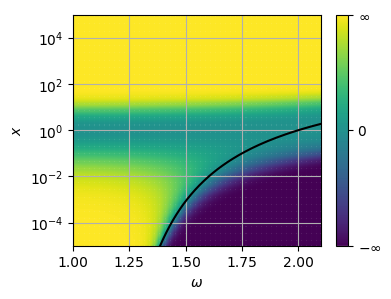
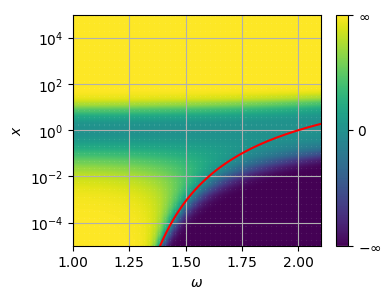
small modifs

diff --git a/paper.tex b/paper.tex
@@ -92,7 +92,7 @@ We also suggest a heuristic to choose a suitable asymptotic overrelaxation param
 \end{abstract}
 
 \section{Introduction}
-Optimal Transport (OT) is an efficient and flexible tool to compare two probability distributions which has been popularized in the computer vision community in the context of discrete histograms \cite{Rubner2000}. The introduction of entropic regularization in \cite{cuturi13} has made possible the use of the fast Sinkhorn--Knopp algorithm \cite{sinkhorn64}   scaling with high dimensional data. 
+Optimal Transport is an efficient and flexible tool to compare two probability distributions which has been popularized in the computer vision community in the context of discrete histograms \cite{Rubner2000}. The introduction of entropic regularization in \cite{cuturi13} has made possible the use of the fast Sinkhorn--Knopp algorithm \cite{sinkhorn64}   scaling with high dimensional data. 
 Regularized optimal transport have thus been intensively used  in  Machine Learning with applications such as   Geodesic PCA \cite{seguy2015principal}, domain adaptation \cite{2015arXiv150700504C}, data fitting \cite{2015arXiv150605439F},  training of Boltzmann Machine \cite{NIPS2016_6248}  or dictionary learning \cite{Rolet2016,2017arXiv170801955S}.
 
 The computation of optimal transport between two data relies on the estimation of an optimal transport matrix, the entries of which represent the quantity of mass transported between  data locations. 
@@ -172,12 +172,11 @@ Another way to interpret the SK algorithm is as an alternate maximization algori
 \begin{equation}\label{DROT}
 \max_{\substack{\alpha\in \IR^n\\\beta\in \IR^m}}\; E(\alpha,\beta) \coloneqq \langle \alpha,\mu^1\rangle+\langle \beta,\mu^2\rangle-\epsilon\sum_{i,j}e^{(\alpha_i+\beta_j-c_{i,j})/\epsilon}.
 \end{equation}
-The function $E$ is concave, continuously differentiable and admits a maximizer, so alternate maximization converges and we recover, for $a_i=e^{\alpha_i/\epsilon}$, $b_j=e^{\beta_j/\epsilon}$ and $\gamma^0_{i,j}=e^{-c_{i,j}/\epsilon}$:
-\begin{align*}
-a^{\ell+1} &= {\mu^1}\oslash{\gamma^0 b^{\ell}} &
-b^{\ell+1} &= {\mu^2}\oslash{^t \gamma^0 a^{\ell+1}} 
-\end{align*}
-
+The function $E$ is concave, continuously differentiable and admits a maximizer, so alternate maximization converges and we recover SK algorithm by posing for $a_i=e^{\alpha_i/\epsilon}$, $b_j=e^{\beta_j/\epsilon}$ and $\gamma^0_{i,j}=e^{-c_{i,j}/\epsilon}$.
+%\begin{align*}
+%a^{\ell+1} &= {\mu^1}\oslash{\gamma^0 b^{\ell}} &
+%b^{\ell+1} &= {\mu^2}\oslash{^t \gamma^0 a^{\ell+1}} 
+%\end{align*}
 
 
 Efficient parallel computations can be considered \cite{cuturi13} and one can even reach real-time computation for large scale problem for certain class of cost matrices $c$ \cite{Solomon2015}. 
@@ -185,16 +184,16 @@ For small values of the parameter $\epsilon$, numerical issues can arise and a s
 The convergence of the process can nevertheless be very slow when $\epsilon$ is small.
 
 \subsection{Overview and contributions}
-In this paper, we consider an overrelaxation scheme designed to accelerate the Sinkhorn--Knopp algorithm. We first present and show the convergence of our algorithm in section 2. In section 3, we analyze the local convergence rate of the algorithm to justify the acceleration.
+In this paper, we consider an overrelaxation scheme designed to accelerate the Sinkhorn--Knopp algorithm. We first present and show the convergence of our algorithm in Section 2. In Section 3, we analyze the local convergence rate of the algorithm to justify the acceleration.
 We finally demonstrate numerically  in Section 4 the good behavior of our method, where larger accelerations are observed for decreasing values of $\epsilon$.
 
 \subsection{Related works }
-The introduction of relaxation variables through heavy ball approaches \cite{POLYAK19641} has recently gained in popularity  to speed up the convergence of algorithms optimizing convex \cite{2014arXiv1412.7457G} or non convex \cite{Zavriev1993,2016arXiv160609070O} problems. Such schemes have also been empirically considered to accelerate the SK algorithm  in \cite{peyre2016quantum,2017arXiv170801955S}. The convergence of these algorithms is nevertheless not studied yet in the context of regularized optimal transport.
+The introduction of relaxation variables through heavy ball approaches \cite{POLYAK19641} has recently gained in popularity  to speed up the convergence of algorithms optimizing convex \cite{2014arXiv1412.7457G} or non convex \cite{Zavriev1993,2016arXiv160609070O} problems. Our specific approach is very much related to the SOR algorithm~\cite{young2014iterative}, which is a classical way to solve linear systems. Similar schemes have been empirically considered to accelerate the SK algorithm  in \cite{peyre2016quantum,2017arXiv170801955S}. The convergence of these algorithms has nevertheless not been studied yet in the context of regularized optimal transport.
 
 
 \section{Overrelaxed Sinkhorn--Knopp algorithm}
 
-As illustrated in Figure \ref{alternate_projections} (a-b), the SK algorithm, that  performs alternate Bregman projections onto the affine sets $\Ccal_1$ and $\Ccal_2$, can be very slow when $\epsilon\to 0$. The idea developed in this paper is to perform overrelaxed projections in order to accelerate the process, as displayed in Figure \ref{alternate_projections} (c).
+As illustrated in Figure \ref{alternate_projections} (a-b), SK algorithm, that  performs alternate Bregman projections onto the affine sets $\Ccal_1$ and $\Ccal_2$, can be very slow when $\epsilon\to 0$. The idea developed in this paper is to perform overrelaxed projections in order to accelerate the process, as displayed in Figure \ref{alternate_projections} (c).
 
 \begin{figure}[ht!]
 \centering
@@ -228,12 +227,12 @@ A naive algorithm would then consist in iteratively applying $P^\omega_{\Ccal_2}
 While it often behaves well in practice, this algorithm may sometimes not converge even for reasonable values of $\omega$.
 Our goal in this section is to modify this algorithm to make it robust and to guarantee convergence.
 
-Duality gives another point of view on the iterative overrelaxed Bregman projections. They indeed correspond to a successive overelaxation (SOR) algorithm on the dual objective $E$. This can be seen by using the relationships given after equation~\eqref{DROT}:
+Duality gives another point of view on the iterative overrelaxed Bregman projections: they indeed correspond to a successive overrelaxation (SOR) algorithm on the dual objective $E$. This is a procedure which, starting from $(\alpha^0,\beta^0)=(\mathbf{0},\mathbf{0})$, defines for $\ell \in \mathbb{N}^*$,
 \begin{align}\label{SORdual}
 \alpha^{\ell+1} &= (1-\omega)\alpha^{\ell} + \omega \arg \max_\alpha E(\alpha,\beta^{\ell})\\
 \beta^{\ell + 1}&=(1-\omega) \beta^{\ell} + \omega \arg \max_\beta E(\alpha^{\ell+1},\beta).
 \end{align} 
-
+This can be seen by using the relationships given after equation~\eqref{DROT}.
 %{\color{blue} \begin{proposition} 
 %State here that the fixed points of   $\gamma^{l+1} =P^\theta_{\Ccal_2}(P^\theta_{\Ccal_1}(\gamma^l))$ are the same than $\gamma^{l+1} =P_{\Ccal_2}(P_{\Ccal_1}(\gamma^l))$? lenaic: what is exactly needed? I can think of it tomorow.
 %\end{proposition}}
@@ -278,8 +277,8 @@ It follows from Lemma \ref{lemma:lyapunov_decrease} that the decrease of $F$ for
 
 \begin{figure}[ht!]
 \begin{center}
-\includegraphics[width=9cm]{images/cvgce_zone}
-\caption{\label{phi_omega} Value of $\varphi_\omega(x)$. The function is positive above the black line, negative below. For any relaxation parameter $\omega$ smaller than $2$, there exists a neighborhood of $1$ on which $\varphi_\omega(\cdot)$ is positive.}
+\includegraphics[width=8cm]{images/cvgce_zone}
+\caption{\label{phi_omega} Value of $\varphi_\omega(x)$. The function is positive above the red line, negative below. For any relaxation parameter $\omega$ smaller than $2$, there exists a neighborhood of $1$ on which $\varphi_\omega(\cdot)$ is positive.}
 %\includegraphics[width=11cm]{phi_omega.png}
 %\caption{\label{phi_omega} Plot of functions $\varphi_\omega(x)$ for different values $1\leq \omega\leq 2$ and   $x\in[10^{-2}, 10^1]$.}
 \end{center}
@@ -343,7 +342,7 @@ Let $\theta_1$ and $\theta_2$ be two continuous functions of $\gamma$ such that
 %{\color{red} 
 %	TODO Construire les bonnes fonctions $\theta_k(\gamma)$.}
 
-To construct explicitly functions $\theta_k$ as needed in Theorem~\ref{thm:algo}, we need the following lemma.
+We can construct explicitly functions $\theta_k$ as needed in Theorem~\ref{thm:algo} using the following lemma.
 \begin{lemma}\label{lemma:F_P_theta}
 	Let $1\le \theta < \omega$. Then, for any $\gamma \in \IR_{+*}^{n_1 n_2}$, one has
 	\begin{equation}\label{eq:F_P_theta}
@@ -352,7 +351,7 @@ To construct explicitly functions $\theta_k$ as needed in Theorem~\ref{thm:algo}
 	Moreover, equality occurs if and only if $\gamma \in \Ccal_k$.
 \end{lemma}
 \begin{proof}
-	Thanks to lemma \ref{lemma:lyapunov_decrease}, one knows that
+	Thanks to Lemma \ref{lemma:lyapunov_decrease}, one knows that
 	\[
 	F(P^\theta_{\Ccal_k}(\gamma)) - F(P^\omega_{\Ccal_k}(\gamma))
 	= \scal{\mu^k}{(\varphi_\omega - \varphi_\theta) \left( \frac{A_k \gamma}{\mu^k} \right) } .
@@ -380,14 +379,6 @@ We now argue that a good choice for the functions $\theta_k$ may be constructed 
 	\end{equation}
 	is continuous and verifies the descent condition (\ref{eq:cond_theta_k}).
 \end{proposition}
-
-This construction, is often an excellent choice in practice, has several advantages:
-\begin{enumerate}[align=right,labelsep=10pt,leftmargin=0.5cm]
-\item[$\bullet$] it allows to choose arbitrarily the parameter $\theta_0$ that will be used eventually when the algorithm is close to convergence (we motivate what are good choices for $\theta_0$ in section \ref{section:local});
-\item[$\bullet$] it is also an easy approach to having an adaptive method, as the approximation of $\Theta^*$ has a negligible cost (it only requires to solve a one dimensional problem that depends on the smallest value of $(A_k \gamma)\oslash \mu^k$, which can be done in a few iterations of Newton's method).
-%\item[$\bullet$] experiments show that this is often an excellent choice in practice.
-\end{enumerate}
-
 \begin{proof}
 Looking at Figure~\ref{phi_omega} can help understand this proof.	Since the partial derivative of $\partial_\omega \varphi_\omega(x)$ is nonzero for any $x<1$, the implicit function theorem proves the continuity of $\Theta^*$.
 	The function $\Theta^*\left((A_k \gamma)\oslash \mu^k)\right)$ is such that every term in relation (\ref{eq:kl_diff_scal}) is non-negative.
@@ -395,7 +386,16 @@ Looking at Figure~\ref{phi_omega} can help understand this proof.	Since the part
 	Constraining the parameter to $[1,\theta_0]$ preserves this property.% as using $\theta=1$ always satisfies inequality \eqref{eq:cond_theta_k} and using $\theta=\theta_0$ when it is smaller than $\Theta^*\left(\frac{A_k \gamma}{\mu^k}\right)$ does as well.
 \end{proof}
 
-The resulting algorithm, which is proved to be convergent by Theorem~\ref{thm:algo}, is written in pseudo-code in Algorithm \ref{SOR}. It uses the function $\Theta$ defined implicitly in \eqref{eq:Theta}, which in practice is approximated with a few iterations of Newton's method on the function $\omega \mapsto \varphi_\omega(\min u)$ which decreasing is as can be seen on Figure~\ref{phi_omega}. With the choice $\theta_0=1$, one recovers exactly the original SK algorithm.is \vspace{-0.1cm}
+This construction, which is often an excellent choice in practice, has several advantages:
+\begin{enumerate}[align=right,labelsep=10pt,leftmargin=0.5cm]
+\item[$\bullet$] it allows to choose arbitrarily the parameter $\theta_0$ that will be used eventually when the algorithm is close to convergence (we motivate what are good choices for $\theta_0$ in Section \ref{section:local});
+\item[$\bullet$] it is also an easy approach to having an adaptive method, as the approximation of $\Theta^*$ has a negligible cost (it only requires to solve a one dimensional problem that depends on the smallest value of $(A_k \gamma)\oslash \mu^k$, which can be done in a few iterations of Newton's method).
+%\item[$\bullet$] experiments show that this is often an excellent choice in practice.
+\end{enumerate}
+
+
+
+The resulting algorithm, which is proved to be convergent by Theorem~\ref{thm:algo}, is written in pseudo-code in Algorithm \ref{SOR}. It uses the function $\Theta$ defined implicitly in \eqref{eq:Theta}, which in practice is approximated with a few iterations of Newton's method on the function $\omega \mapsto \varphi_\omega(\min u)$ which is decreasing is as can be seen on Figure~\ref{phi_omega}. With the choice $\theta_0=1$, one recovers exactly the original SK algorithm.is \vspace{-0.1cm}
 \begin{algorithm}
 \caption{Overrelaxed SK algorithm }
 \label{SOR}
@@ -427,10 +427,10 @@ The resulting algorithm, which is proved to be convergent by Theorem~\ref{thm:al
 \section{Acceleration of local convergence rate}
 \label{section:local}
 In order to justify the acceleration of convergence that is observed in practice, we now study the local convergence rate of the overrelaxed algorithm, which follows from the classical convergence analysis of the linear SOR method. Our result involves the second largest eigenvalue of the matrix
- \[
+\begin{equation}\label{eq:M1}
 M_1= \diag(1\oslash \mu^1) \, \gamma^* \, \diag(1\oslash \mu^2)\, ^t\gamma^*
-\]
-where $\gamma^*$ is the solution to the regularized OT problem. This matrix corresponds to the linearized dual SK iteration at the maximizer. We denote this second largest eigenvalue by $1-\eta$, which satisfies $\eta>0$ (see \cite{knight2008sinkhorn}).
+\end{equation}
+where $\gamma^*$ is the solution to the regularized OT problem. We denote this second largest eigenvalue by $1-\eta$, which satisfies $\eta>0$ (see \cite{knight2008sinkhorn}).
 
 \begin{proposition}\label{prop:local}
 The SK algorithm converges locally at a linear rate $1-\eta$. For the optimal choice of extrapolation parameter $\theta^* = 2/(1+\sqrt{\eta})$, the overrelaxed projection algorithm converges locally linearly at a rate $(1-\sqrt{\eta})/(1+\sqrt{\eta})$. More generally, the local convergence of the overrelaxed algorithm is guaranteed as long as $\theta \in {]0,2[}$ and the linear rate is given on Figure~\ref{fig:eigtransform} as a function of $1-\eta$ and $\theta$.
@@ -441,16 +441,16 @@ In this proof, we focus on the dual problem and we recall the relationship $\gam
 The dual problem~\eqref{DROT} is invariant by translations of the form $(\alpha,\beta)\mapsto (\alpha-k,\beta+k)$, $k\in \IR$, but is otherwise strictly convex on any subspace which does not contain the line $\IR(\mathbf{1},-\mathbf{1})$ (this invariance cancels in the corresponding primal iterates). In order to deal with this invariance, consider the subspace $S$ of pairs of dual variables $(\alpha,\beta)$ that satisfy $\alpha_1=0$, let $\pi_S$ be the (non orthogonal) projection on $S$ of kernel $(\mathbf{1},-\mathbf{1})$ and let $(\alpha^*,\beta^*)\in S$ be a dual maximizer. 
 
 % 
-Since the SOR iteration it smooth, its local convergence is characterized by the local convergence of its linearized version, which corresponds to the SOR method applied to maximize the quadratic expansion of the dual objective $E$ at $(\alpha^*,\beta^*)$. This defines an affine map $M_\theta : (\alpha^{\ell},\beta^{\ell})\mapsto (\alpha^{\ell+1},\beta^{\ell+1})$ whose spectral properties are well known~\cite{ciarlet1982introduction, young2014iterative} (see also \cite[chapter 4]{chizat2017these} for the specific case of convex minimization). Specifically, in the non strictly concave case~\cite{hadjidimos1985optimization}, we have that the operator $\pi_S\circ M_1^\ell$ converges at the linear rate $1-\eta$ towards the projector on $(\alpha^*,\beta^*)$ and that the convergence of $\pi_S\circ M_\theta^\ell$ is guaranteed for $\theta \in ]0,2[$, with the rate 
+Since the SOR iteration followed by $\pi_S$ is a smooth map, its local convergence properties are characterized by the local convergence of its linearization, which corresponds to the SOR method applied to the maximization of the quadratic Taylor expansion of the dual objective $E$ at $(\alpha^*,\beta^*)$. This defines an affine map $M_\theta : (\alpha^{\ell},\beta^{\ell})\mapsto (\alpha^{\ell+1},\beta^{\ell+1})$ whose spectral properties are well known~\cite{ciarlet1982introduction, young2014iterative} (see also \cite[chapter 4]{chizat2017these} for the specific case of convex minimization). For the case $\theta=1$, we obtain the matrix $M_1$ defined in \eqref{eq:M1}. Specifically, in the non strictly concave case~\cite{hadjidimos1985optimization}, we have that the operator $\pi_S\circ M_1^\ell$ converges at the linear rate $1-\eta$ towards the projector on $(\alpha^*,\beta^*)$ and that the convergence of $\pi_S\circ M_\theta^\ell$ is guaranteed for $\theta \in ]0,2[$, with the rate 
 \[
 f(\theta,\eta) = \begin{cases}
-\theta-1 & \text{if $\theta$}\\
-\frac12 \theta^2(1-\eta) - (\theta-1) +\frac12 \sqrt{(1-\eta)\theta^2(\theta^2(1-\eta)-4(\theta-1))} & \text{otherwise.}
+\theta-1 & \text{if $\theta>\theta^*$}\\
+\frac12 \theta^2(1-\eta) - (\theta-1) +\frac12 \sqrt{(1-\eta)\theta^2(\theta^2(1-\eta)-4(\theta-1))} & \text{otherwise},
 \end{cases}
 \]
-where $\theta^*=2/(1+\sqrt{\eta})$ is the optimal parameter, for which $f(\theta,\eta)=(1-\sqrt{\eta})/(1+\sqrt{\eta})$. The function $f$ is plotted in Figure \ref{fig:eigtransform}.
+where $\theta^*\coloneqq2/(1+\sqrt{\eta})$ is the optimal parameter, for which $f(\theta^*,\eta)=(1-\sqrt{\eta})/(1+\sqrt{\eta})$. The function $f$ is plotted in Figure \ref{fig:eigtransform}.
 
-To switch from these dual convergence results to primal results, remark that $\gamma^\ell \to \gamma^*$ implies $\KL(\gamma^\ell,\gamma^0)\to \KL(\gamma^*,\gamma^0)$ which in turn implies $E(\alpha^\ell,\beta^\ell) \to \max E$ so invoking the partial strict concavity of $E$, $\pi_S(\alpha^\ell,\beta^\ell)\to (\alpha^*,\beta^*)$. The converse implication is direct. We conclude by noting that the fact that $\pi_S(\alpha^\ell, \beta^\ell)$ converges at a linear rate implies the same rate on $\gamma^\ell$, thanks to the relationship between the iterates.
+To switch from these dual convergence results to primal convergence results, remark that $\gamma^\ell \to \gamma^*$ implies $\KL(\gamma^\ell,\gamma^0)\to \KL(\gamma^*,\gamma^0)$ which in turn implies $E(\alpha^\ell,\beta^\ell) \to \max E$ so invoking the partial strict concavity of $E$, $\pi_S(\alpha^\ell,\beta^\ell)\to (\alpha^*,\beta^*)$. The converse implication is direct so it holds $[\pi_S(\alpha^\ell,\beta^\ell)\to (\alpha^*,\beta^*)] \Leftrightarrow [\gamma^\ell \to \gamma^*]$. We conclude by noting that the fact that $\pi_S(\alpha^\ell, \beta^\ell)$ converges at a linear rate implies the same rate on $\gamma^\ell$, thanks to the relationship between the iterates.
 %Using standard arguments, we have that the local convergence rate of the SOR procedure on the dual objective $E$ is that of the SOR procedure applied to the quadratic form defined by its Hessian and the linear rate of \emph{semi-convergence} to the projection on the set of minimizers. 
 \end{proof}
 
@@ -470,7 +470,7 @@ To switch from these dual convergence results to primal results, remark that $\g
 The previous local convergence analysis applies to Algorithm \ref{thm:algo}, where the local convergence rate is governed by the choice of the target extrapolation parameter $\theta_0$.
 \end{corollary}
 \begin{proof}
-What we need to show is that eventually one always has $\Theta(\gamma^\ell)=\theta_0$. This can be seen from the quadratic Taylor expansion $\varphi_{\theta_0}(1+z)=z^2(\theta_0 -\theta_0^2/2)+ o(z^2)$, which shows that for any choice of $\theta_0<2$ there is a neighborhood of $1$ on which $\varphi_{\theta_0}(\cdot)$ is nonnegative.
+What we need to show is that eventually one always has $\Theta(\gamma^\ell)=\theta_0$. This can be seen from the quadratic Taylor expansion $\varphi_{\theta_0}(1+z)=z^2(\theta_0 -\theta_0^2/2)+ o(z^2)$, which shows that for any choice of $\theta_0\in {]1,2[}$, there is a neighborhood of $1$ on which $\varphi_{\theta_0}(\cdot)$ is nonnegative.
 \end{proof}
 
 %If $(\alpha^*,\beta^*)$ is a solution of \eqref{DROT}, then all the other optimum can be written as $(\alpha^*+\kappa,\beta^*-\kappa)$, which means that the problem admits a unique solution, up to a translation with constant $\kappa\in\IR$.
@@ -480,13 +480,13 @@ What we need to show is that eventually one always has $\Theta(\gamma^\ell)=\the
     
 
 \section{Experimental results}
-We compare Algorithm~\ref{SOR} to SK algorithm in two very different settings.
+We compare Algorithm~\ref{SOR} to SK algorithm on two very different optimal transport settings.
 In setting (a) we consider the domain $[0,1]$ discretized into $100$ samples and the squared Euclidean transport cost on this domain.
-The marginals are densities made of the sum of a base plateau of height $0.1$ and another plateau of heights and boundaries chosen uniformly in $[0,1]$, subsequently normalized.
+The marginals are densities made of the sum of a base plateau of height $0.1$ and another plateau of height and boundaries chosen uniformly in $[0,1]$, subsequently normalized.
 In setting (b) the cost is a $100\times 100$ random matrix with entries uniform in $[0,1]$ and the marginals are uniform.
 %The interest of having two settings is that the SK algorithm is known to behave very differently as $\epsilon$ decreases for these two problems and 
 
-Given an estimation of $1-\eta$, the local convergence rate of SK algorithm, we define $\theta_0$ as the optimal parameter as given in Proposition \ref{prop:local}. For estimating $\eta$, we follow two strategies. For strategy ``estimated'' (in blue on figure~\ref{fig:comparison}), $\eta$ is measured by looking at the local convergence rate of SK run on another random problem of the same setting and for the same value of $\epsilon$. For strategy ``measured'' (in orange on figure~\ref{fig:comparison}) the parameter is set using the local convergence rate of SK run on the same problem. Of course, the latter is unrealistic strategy but our experiment shows that the acceleration power is not so much impacted by estimating once for all the overrelaxation parameter for a class of problem with fixed regularization, as shown on~\ref{fig:comparison}.
+Given an estimation of $1-\eta$, the local convergence rate of SK algorithm, we define $\theta_0$ as the optimal parameter as given in Proposition \ref{prop:local}. For estimating $\eta$, we follow two strategies. For strategy ``estimated'' (in blue on Figure~\ref{fig:comparison}), $\eta$ is measured by looking at the local convergence rate of SK run on another random problem of the same setting and for the same value of $\epsilon$. For strategy ``measured'' (in orange on Figure~\ref{fig:comparison}) the parameter is set using the local convergence rate of SK run on the same problem. Of course, the latter is an unrealistic strategy but it is interesting to see in our experiments that the ``estimated'' strategy performs almost as well as the ``measured'' one, as shown on~\ref{fig:comparison}.
 \begin{figure}
 \begin{minipage}[b]{.5\linewidth}
    \centering
@@ -502,7 +502,7 @@ Given an estimation of $1-\eta$, the local convergence rate of SK algorithm, we 
 \end{figure}
 
 
-Figure~\ref{fig:comparison} displays the ratio of the number of iterations required to reach a precision of $10^{-6}$ on the dual variable $\alpha$ for SK algorithm and Algorithm \ref{SOR}. It is is worth noting that the complexity per iteration is the same, modulo negligible terms, so this ratio is also the runtime ratio (our algorithm can also be parallelized on GPUs just as SK algorithm). In both experimental settings, for low values of the regularization parameter $\epsilon$, the acceleration ratio is above $20$  with Algorithm \ref{SOR}.
+Figure~\ref{fig:comparison} displays the ratio of the number of iterations required to reach a precision of $10^{-6}$ on the dual variable $\alpha$ for SK algorithm and Algorithm \ref{SOR}. It is is worth noting that the complexity per iteration of these algorithms is the same modulo negligible terms, so this ratio is also the runtime ratio (our algorithm can also be parallelized on GPUs just as SK algorithm). In both experimental settings, for low values of the regularization parameter $\epsilon$, the acceleration ratio is above $20$  with Algorithm \ref{SOR}.
 
 %\renewcommand{\algorithmiccomment}[1]{\hfill\bgroup(#1)\egroup}
 %\begin{algorithm}
